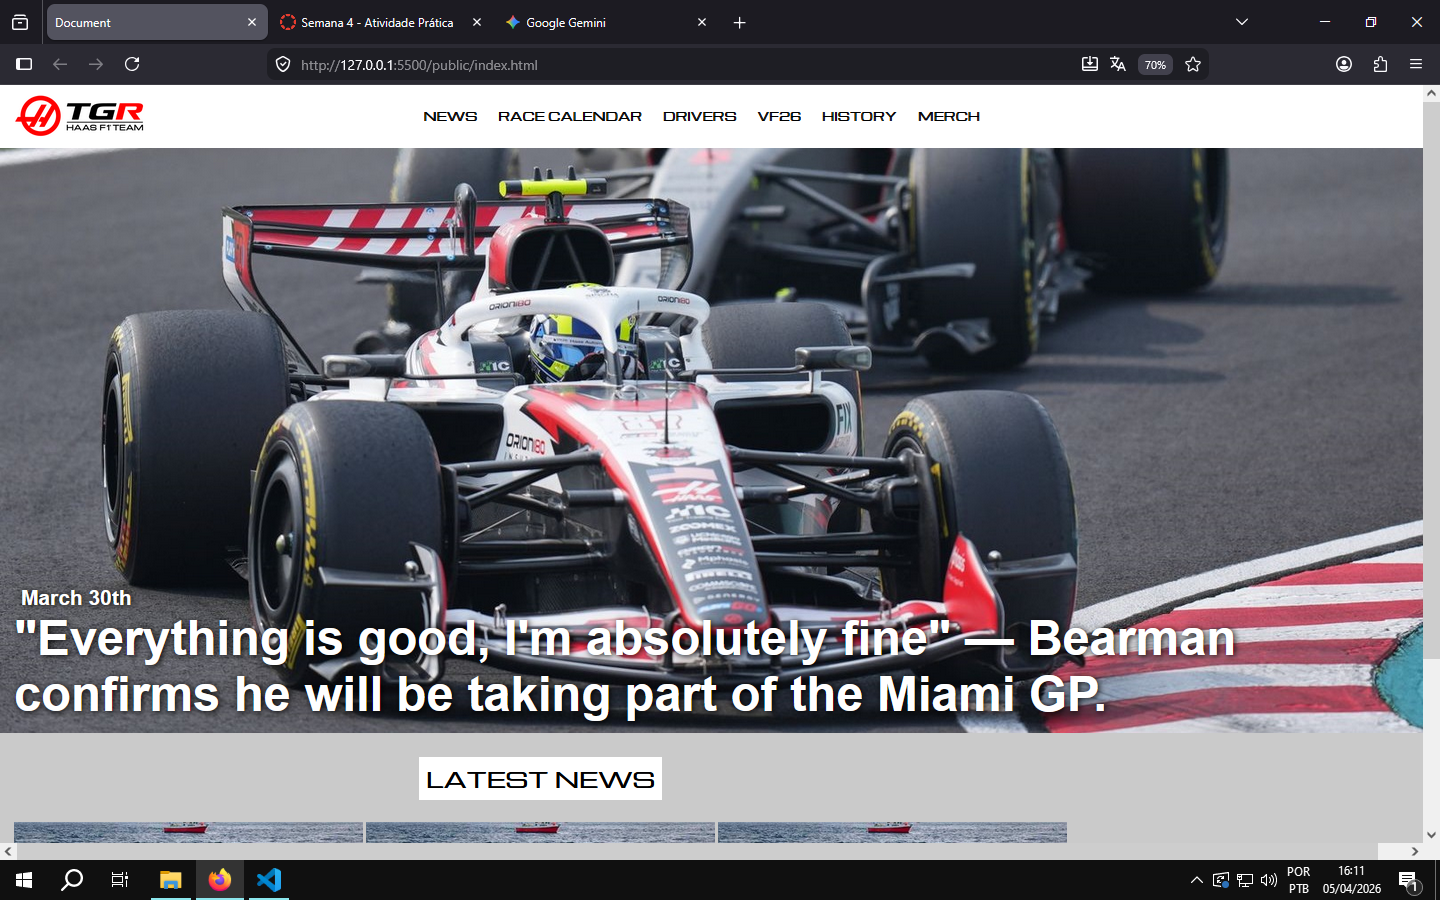
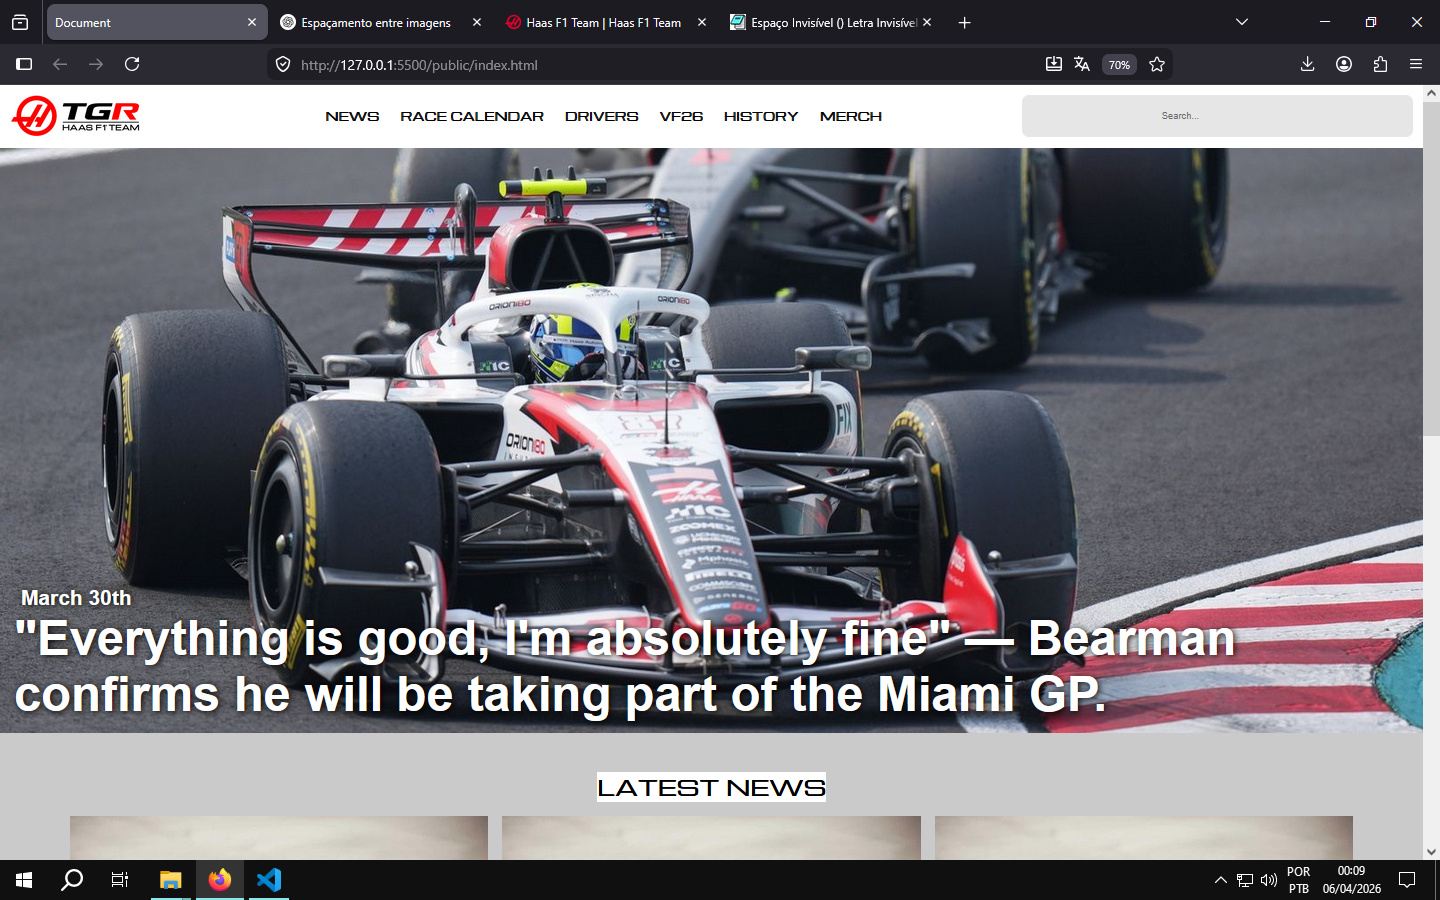
botões

diff --git a/public/style.css b/public/style.css
@@ -7,6 +7,7 @@
 * {
     margin: 0;
     padding: 0;
+    box-sizing: border-box;
     font-family: sans-serif;
 }
 
@@ -21,8 +22,16 @@ header {
     position: sticky;
     width: 100%;
     display: flex;
-    padding-left: 20px;
+}
 
+.search {
+    margin-left: auto;
+    display: flex;
+    align-items: right;
+    background: #e6e6e6;
+    border-radius: 10px;
+    padding: 20px 200px;
+    border: 1px;
 }
 
 nav {
@@ -31,8 +40,8 @@ nav {
     font-family: Michroma;
     display: flex;
     width: 78%;
-
     align-items: center;
+    padding-left: 60px;
     justify-content: center
 }
 
@@ -44,7 +53,7 @@ nav ul b {
 
 .mainnoticia {
     position: relative;
-    
+
 }
 
 .mainnoticia h1 {
@@ -66,21 +75,23 @@ nav ul b {
     font-family: sans-serif;
 }
 
-main center h1 strong{
+main {
     width: 100%;
-    padding: 10px;
-    gap: 20px;
+    padding: 15px;
+    text-align: center;
+
+}
+
+article {
+    width: 100%;
+}
+
+article h1 strong {
     font-size: 30px;
     font-family: "Michroma", sans-serif;
     background-color: white;
+
+    text-align: center;
+    margin-bottom: 20px;
 }
 
-main br {
-    font-size: 35px;
-}
-main {
-    display: flex;
-    width: 75%;
-    padding-left: 20px;
-    padding-bottom: 20px;
-}

diff --git a/public/index.html b/public/index.html
@@ -22,8 +22,8 @@
             <ul><b>HISTORY</b></ul>
             <ul><b>MERCH</b></ul>
 
-
         </nav>
+
     </header>
     <section>
         <div class="mainnoticia">
@@ -36,16 +36,25 @@
     <main>
         <br>
         <br>
-        <center>
-            <br>
+        <article>
             <h1><strong>LATEST NEWS</strong></h1>
-            <br>
-            <img src="https://picsum.photos/500/300" alt="">
-            <img src="https://picsum.photos/500/300" alt="">
-            <img src="https://picsum.photos/500/300" alt="">
-        </center>
-    </main>
-artic
+
+            <div class="carrossel">
+                <button class="esq">◀</button>
+
+                <div class="imagensnoticia" id="carrossel">
+                    <img src="https://picsum.photos/600/400">
+                    <img src="https://picsum.photos/600/400">
+                    <img src="https://picsum.photos/600/400">
+
+                </div>
+                <button class="dir">▶</button>
+            </div>
+        </article>
+        <br>
+        <br>
+
+
 </body>
 
 </html>
